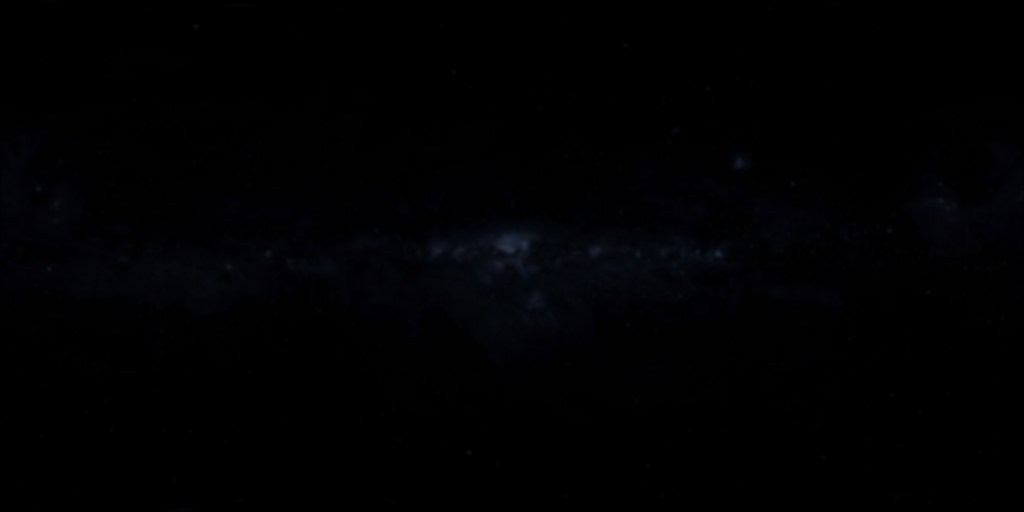
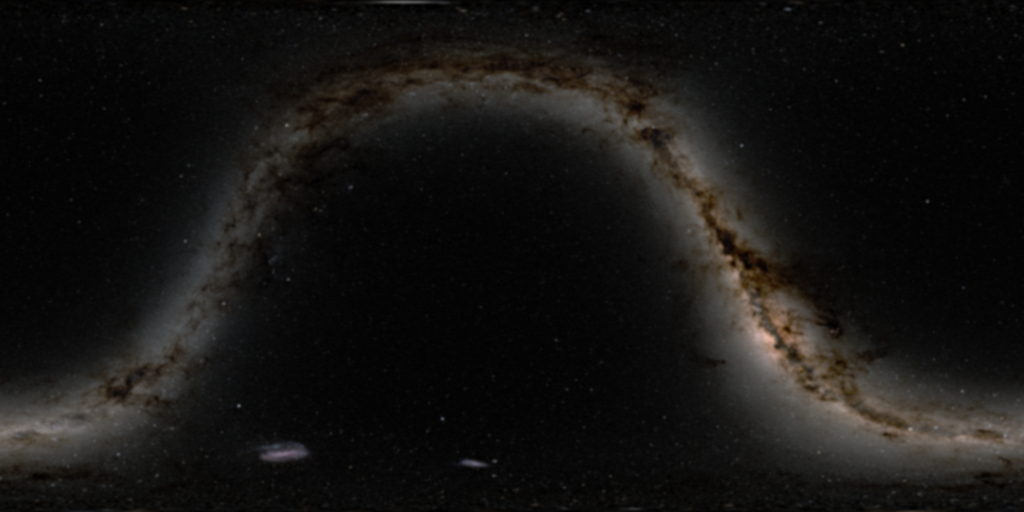
地球背景专项：真实星空与 4K 银河质感（v2.6.3）
- 银河贴图重建（ref/build-sky.py）：8192 母版 Lanczos 三档管线，
  高斯压星点 + UnsharpMask 找回尘埃带 + JPEG 4:4:4；4K 从 91KB
  提升到 1.4MB 真实细节，2K/1K 分别 115/39KB
- 着色器（FS_SKY）：3D 值噪声尘埃纹理锚定天球方向（无接缝、随相机
  稳定），band 掩码只在银道亮处浮现；银道暖调形成纵深；抖动改
  自适应（暗处强亮处弱），专打 8bit 色带
- 星点分布真实化：暗星 62% 银道聚集（|银纬|≤18°）、星等幂律、
  B−V 向暖星偏斜；亮星（<2 等）叠更宽辉光与暗星拉开层次
- 星座连线按需求移除：F05 从注册表删除（旧 URL 参数被过滤，
  渲染代码休眠保留，数据文件留作复用）
- 可配置参数集中到 APP.runtime.sky：tilt/spin/gain/dust/warm
- 文档：SKY_SPEC 第四版（管线/分布/参数/数据来源），
  LAYER_SYSTEM/ARCHITECTURE 层数同步，OPS_LOG 19

diff --git a/assets/js/earth.js b/assets/js/earth.js
@@ -8,8 +8,12 @@ import {
   VS_QUAD, FS_SKY, VS_STAR, FS_STAR, VS_METEOR, FS_METEOR, VS_LINE, FS_LINE,
   METEOR_SPEC
 } from './skyfield.js';
+import { APP } from './config.js';
 
 const DEG = Math.PI / 180;
+/* 天空可调参数：config.js 的 APP.runtime.sky 是唯一来源；
+   themeState.sky（主题表）只覆盖增益，宣纸主题把整个银河关掉。 */
+const SKY_CFG = APP.runtime.sky || {};
 const clamp = (v, a, b) => Math.min(b, Math.max(a, v));
 /* 缩放范围：0.5 贴近地表，1.9 退到远轨，给足推拉空间 */
 const MIN_DIST = 0.50;
@@ -520,21 +524,32 @@ export function createEarth(canvas, opts = {}) {
       }
     }
 
-    /* 暗星（6.5–9 等）：均匀球面，只提供"密" */
+    /* 暗星（6.5–9 等）：真实感的三条分布——
+       ① 银道聚集：约六成落在 |银纬| ≤ 18° 的银道带内，其余均匀全天，
+          夜空会自然呈现"银河两侧星密、两极稀疏"的层次；
+       ② 星等幂律：N(m) 向 6.5 等方向更密（越暗的越少），
+          亮度沿用真实亮星同一条曲线再接 0.45 倍，衔接无跳变；
+       ③ 色温分布：B−V 向 0.6–1.2（G/K 矮星）偏斜，混少量蓝白与红。 */
     const rnd = mulberry32(20261112);
     while (i < count) {
-      const z = rnd() * 2 - 1;
+      const inBand = rnd() < 0.62;
+      const lat = inBand ? (rnd() * 2 - 1) * 0.315 : Math.asin(rnd() * 2 - 1);
+      const z = Math.sin(lat);
       const phi = rnd() * Math.PI * 2;
       const r = Math.sqrt(Math.max(0, 1 - z * z));
       dir[i * 3] = r * Math.cos(phi);
       dir[i * 3 + 1] = z;
       dir[i * 3 + 2] = r * Math.sin(phi);
-      const mag = 6.5 + rnd() * 2.5;
+      /* 幂律：u^2 让 6.5 等附近更密，尾部 9 等稀疏 */
+      const u = rnd();
+      const mag = 6.5 + 2.5 * u * u;
       pack[i * 4] = 0.5 + rnd() * 0.5;
       /* 与真实亮星同一条星等曲线，再压一半：暗星接在 6.5 等的
          亮度下限之下，不会出现"6.5 等的程序星比 6 等的真星还亮"的跳变 */
       pack[i * 4 + 1] = magBright(mag) * 0.45;
-      pack[i * 4 + 2] = 0.25 + rnd() * 1.4;
+      /* B−V 向暖星偏斜：0.35 + u^2 × 1.1（0.35–1.45），
+         色温自然过渡，不会出现等距色阶的"彩虹感" */
+      pack[i * 4 + 2] = 0.35 + Math.pow(rnd(), 2) * 1.1;
       pack[i * 4 + 3] = rnd();
       i++;
     }
@@ -1041,9 +1056,11 @@ export function createEarth(canvas, opts = {}) {
     g.uniform1f(progBg.u.uTanHalf, Math.tan(15 * DEG));
     g.uniform1f(progBg.u.uAspect, aspect);
     g.uniform1f(progBg.u.uSkyGain, skyGain);
-    g.uniform1f(progBg.u.uSkyTilt, 0.33);
-    g.uniform1f(progBg.u.uSkySpin, 0.0);
+    g.uniform1f(progBg.u.uSkyTilt, SKY_CFG.tilt ?? 0.33);
+    g.uniform1f(progBg.u.uSkySpin, SKY_CFG.spin ?? 0);
     g.uniform1f(progBg.u.uSkyBias, 0.0);
+    g.uniform1f(progBg.u.uSkyDust, SKY_CFG.dust ?? 0.22);
+    g.uniform1f(progBg.u.uSkyWarm, SKY_CFG.warm ?? 0.35);
     g.activeTexture(g.TEXTURE0 + 3);
     g.bindTexture(g.TEXTURE_2D, textures.sky || null);
     g.uniform1i(progBg.u.uSky, 3);
@@ -1062,8 +1079,8 @@ export function createEarth(canvas, opts = {}) {
       const light = document.documentElement.dataset.theme === 'ivory';
       g.uniform3fv(progLine.u.uColor, light ? [0.16, 0.20, 0.30] : [0.62, 0.72, 0.92]);
       g.uniform1f(progLine.u.uAlpha, light ? 0.20 : 0.13);
-      g.uniform1f(progLine.u.uSkyTilt, 0.33);
-      g.uniform1f(progLine.u.uSkySpin, 0.0);
+      g.uniform1f(progLine.u.uSkyTilt, SKY_CFG.tilt ?? 0.33);
+      g.uniform1f(progLine.u.uSkySpin, SKY_CFG.spin ?? 0);
       g.drawArrays(g.LINES, 0, figureN);
     }
 
@@ -1084,8 +1101,8 @@ export function createEarth(canvas, opts = {}) {
       g.uniform1f(progStar.u.uDpr, state.dpr);
       g.uniform1f(progStar.u.uTime, t);
       g.uniform1f(progStar.u.uStars, themeState.stars * (state.flags.stars ? 1 : 0));
-      g.uniform1f(progStar.u.uSkyTilt, 0.33);
-      g.uniform1f(progStar.u.uSkySpin, 0.0);
+      g.uniform1f(progStar.u.uSkyTilt, SKY_CFG.tilt ?? 0.33);
+      g.uniform1f(progStar.u.uSkySpin, SKY_CFG.spin ?? 0);
       g.drawArrays(g.POINTS, 0, starN);
     }
 

diff --git a/assets/js/skyfield.js b/assets/js/skyfield.js
@@ -31,6 +31,7 @@ uniform float uSkyTilt;
 uniform float uSkySpin;
 varying float vA;
 varying vec3 vC;
+varying float vGlow;
 
 /* B−V → 黑体温度（Ballesteros 2012）→ RGB（Tanner Helland 拟合） */
 vec3 bvToRgb(float bv) {
@@ -79,21 +80,26 @@ void main() {
   float tw = 0.96 + 0.04 * sin(uTime * 0.85 + seed * 6.283);
   vA = uStars * aPack.y * boost * tw;
   vC = bvToRgb(aPack.z);
+  /* 亮星（约 2 等以内）带一圈更宽的辉光，与暗星的紧凑光斑拉开层次 */
+  vGlow = smoothstep(0.42, 0.6, aPack.y);
 }`;
 
 export const FS_STAR = `
 precision mediump float;
 varying float vA;
 varying vec3 vC;
+varying float vGlow;
 void main() {
   vec2 d = gl_PointCoord - 0.5;
   float r = length(d) * 2.0;
   if (r > 1.0) discard;
 
-  /* 高斯核 + 12% 的宽晕。晕再大就会在暗底上摊成灰斑 */
+  /* 高斯核 + 12% 的宽晕；2 等以内的亮星再叠一圈更宽的辉光。
+     晕再大就会在暗底上摊成灰斑，所以辉光只给最亮的一批 */
   float core = exp(-r * r * 18.0);
   float halo = exp(-r * r * 3.8) * 0.12;
-  float a = (core + halo) * vA;
+  float wide = exp(-r * r * 1.1) * 0.16 * vGlow;
+  float a = (core + halo + wide) * vA;
 
   gl_FragColor = vec4(vC * a, a);
 }`;
@@ -164,6 +170,8 @@ uniform float uSkyGain;
 uniform float uSkyTilt;
 uniform float uSkySpin;
 uniform float uSkyBias;
+uniform float uSkyDust;
+uniform float uSkyWarm;
 
 varying vec2 vP;
 
@@ -171,6 +179,24 @@ float hash(vec2 p) {
   p = fract(p * vec2(123.34, 456.21));
   p += dot(p, p + 34.56);
   return fract(p.x * p.y);
+}
+float hash(vec3 p) {
+  p = fract(p * vec3(443.897, 441.423, 437.195));
+  p += dot(p, p.yzx + 19.19);
+  return fract((p.x + p.y) * p.z);
+}
+/* 3D 值噪声：锚定天球方向——随相机旋转稳定、经线处无接缝 */
+float vnoise3(vec3 p) {
+  vec3 i = floor(p), f = fract(p);
+  f = f * f * (3.0 - 2.0 * f);
+  float n000 = hash(i), n100 = hash(i + vec3(1.0, 0.0, 0.0));
+  float n010 = hash(i + vec3(0.0, 1.0, 0.0)), n110 = hash(i + vec3(1.0, 1.0, 0.0));
+  float n001 = hash(i + vec3(0.0, 0.0, 1.0)), n101 = hash(i + vec3(1.0, 0.0, 1.0));
+  float n011 = hash(i + vec3(0.0, 1.0, 1.0)), n111 = hash(i + vec3(1.0, 1.0, 1.0));
+  return mix(
+    mix(mix(n000, n100, f.x), mix(n010, n110, f.x), f.y),
+    mix(mix(n001, n101, f.x), mix(n011, n111, f.x), f.y),
+    f.z);
 }
 
 vec2 dirToSky(vec3 d) {
@@ -204,7 +230,16 @@ void main() {
     sky = max(sky - 0.006, 0.0);
     /* 全景本身偏蓝紫；往中性拉 45%，再补一点暖，接近肉眼/长曝光的银道 */
     float luma = dot(sky, vec3(0.2126, 0.7152, 0.0722));
-    sky = mix(vec3(luma), sky, 0.55) * vec3(1.04, 1.00, 0.96);
+    sky = mix(vec3(luma), sky, 0.55);
+
+    /* 尘埃与星云质感：两组值噪声锚定天球方向（240/64 周），
+       只在银道亮处浮现——暗空保持干净，不引入可见噪点 */
+    float dust = vnoise3(dir * 240.0) * 0.62 + vnoise3(dir * 64.0) * 0.38;
+    float band = clamp(luma * 4.0, 0.0, 1.0);
+    sky += sky * (dust - 0.5) * uSkyDust * band;
+
+    /* 暖调：银道偏暖、核球偏金，与冷色天顶拉开纵深 */
+    sky *= mix(vec3(1.0), vec3(1.10, 1.02, 0.92), uSkyWarm * band);
     col += sky * uSkyGain;
   }
 
@@ -212,8 +247,9 @@ void main() {
   float dd = distance(vP, vec2(0.5)) / 0.82;
   col *= pow(clamp(1.0 - dd * dd * 0.24, 0.0, 1.0), 0.9);
 
-  /* 颗粒只为打散 8bit 渐变，幅度约 3 个色阶 */
-  col += (hash(vP * 2048.0) - 0.5) * uGrain;
+  /* 抖动颗粒：暗处重、亮处轻，专打 8bit 渐变在暗空里的色带 */
+  float lcol = dot(col, vec3(0.2126, 0.7152, 0.0722));
+  col += (hash(vP * 2048.0) - 0.5) * uGrain * (1.5 - 1.2 * clamp(lcol, 0.0, 1.0));
   gl_FragColor = vec4(max(col, 0.0), 1.0);
 }`;
 

diff --git a/assets/js/layers.js b/assets/js/layers.js
@@ -36,7 +36,7 @@ export const GROUPS = [
   },
   {
     id: 'sky', no: '03', zh: '深空', en: 'Deep sky',
-    descZh: '真实星表、星座、银河与流星', descEn: 'Real stars, constellations, galaxy, meteors'
+    descZh: '真实星表、银河与偶发流星', descEn: 'Real stars, the Milky Way, meteors'
   },
   {
     id: 'base', no: '04', zh: '基底', en: 'Base',
@@ -139,8 +139,8 @@ export const LAYERS = [
     group: 'sky',
     title: { zh: '星表', en: 'Star catalogue' },
     summary: {
-      zh: '5044 颗真实亮星（至 6 等，含 B−V 色指数）打底，程序暗星补密；星座真的会成形。',
-      en: '5,044 real bright stars to magnitude 6, with B−V colour, plus procedural dim stars — real constellations take shape.'
+      zh: '5044 颗真实亮星（至 6 等，含 B−V 色指数）打底，程序暗星按银道聚集补密；夜空有真实的亮度与色温层次。',
+      en: '5,044 real bright stars to magnitude 6, with B−V colour, plus galactic-band dim stars — real brightness and colour depth.'
     },
     provenance: 'obs',
     sources: [S('NASA/GSFC SVS 4851 Deep Star Maps 2020 · Gaia DR2', 'https://svs.gsfc.nasa.gov/4851/', '公有领域 / CC BY-SA 3.0 IGO'),
@@ -152,22 +152,6 @@ export const LAYERS = [
     apply(on, ctx) { ctx.earth.setFlags({ stars: on }); }
   },
 
-  {
-    id: 'F05.constellations',
-    group: 'sky',
-    title: { zh: '星座连线', en: 'Constellation figures' },
-    summary: {
-      zh: '88 个星座的传统连线，随天球一起转；开关星表时它也一并隐去。',
-      en: 'The traditional line figures of all 88 constellations, fixed to the celestial sphere.'
-    },
-    provenance: 'obs',
-    sources: [S('星座连线 · Deep Star Maps 2020 配套目录', 'https://svs.gsfc.nasa.gov/4851/', '公有领域')],
-    defaultOn: false,
-    cost: { vramMB: 0, ms: 0.1 },
-    params: { zh: ['88 星座 · 743 线段', '银道坐标系', '淡蓝 13% 透明度'], en: ['88 figures · 743 segments', 'Galactic frame', 'Pale blue, 13% alpha'] },
-    legend: { zh: '星座连线 · 88', en: 'Constellations · 88' },
-    apply(on, ctx) { ctx.earth.setFlags({ constellations: on }); }
-  },
 
   {
     id: 'L07.milkyway',

diff --git a/assets/js/config.js b/assets/js/config.js
@@ -78,7 +78,16 @@ export const APP = {
     errToastThrottleMs: 5000,
 
     /* 错误环形缓冲条数（控制台 atlasErrors() 可读） */
-    errRingSize: 12
+    errRingSize: 12,
+
+    /* 星空/银河渲染参数（earth.js 读取；主题表只覆盖 gain） */
+    sky: {
+      tilt: 0.33,       /* 银道面倾角（弧度）：银河穿过画面的角度 */
+      spin: 0,          /* 银道经度旋转（弧度） */
+      gain: 5.1,        /* 银河亮度倍率（宣纸主题覆盖为 0） */
+      dust: 0.22,       /* 尘埃/星云纹理强度（0 关闭，锚定天球方向） */
+      warm: 0.35        /* 银道暖调强度（0–1，核球偏金） */
+    }
   }
 };
 

diff --git a/ref/build-sky.py b/ref/build-sky.py
@@ -1,0 +1,53 @@
+#!/usr/bin/env python3
+# -*- coding: utf-8 -*-
+"""
+build-sky.py — 银河全景三档重建（从 8K 母版）
+
+输入：sky/milky-way-8k.jpg（8192×4096，等距圆柱，银道居中；
+      ESO 银河巡天全景，经由参考站处理，随图集 vendor 进入仓库）
+输出：assets/tex/sky-milky-1k/2k/4k.jpg
+
+处理链（针对两处质感问题）：
+1. 星点灰斑 —— 母版带着几十万颗星，直接缩会混叠成灰斑。
+   方案：Lanczos 缩到目标尺寸（星点压进 1px）→ 轻高斯把残留
+   1px 亮点抹平。银道/尘埃带是几十像素宽的结构，不受影响。
+2. 暗部噪点与色度渗出 —— 保存时用 4:4:4 色度（subsampling=1）
+   并加极轻的 UnsharpMask（大半径、低强度）把尘埃带边缘找回来，
+   不放大噪声（threshold 挡住平坦暗区）。
+
+星点的"锐"由星表层负责（5044 真实亮星 + 程序暗星），全景只管"带"。
+
+运行：python ref/build-sky.py
+"""
+import os
+from PIL import Image, ImageFilter
+
+ROOT = os.path.dirname(os.path.dirname(os.path.abspath(__file__)))
+MASTER = os.path.join(ROOT, 'sky', 'milky-way-8k.jpg')
+OUT = os.path.join(ROOT, 'assets', 'tex')
+
+# (目标宽, 文件名, 高斯σ, unsharp半径, unsharp强度, jpeg质量)
+TIERS = [
+    (4096, 'sky-milky-4k.jpg', 0.8, 8, 55, 80),
+    (2048, 'sky-milky-2k.jpg', 2.2, 6, 40, 85),
+    (1024, 'sky-milky-1k.jpg', 1.2, 5, 30, 82),
+]
+
+
+def main():
+    im = Image.open(MASTER).convert('RGB')
+    w, h = im.size
+    assert (w, h) == (8192, 4096), f'unexpected master {im.size}'
+    for tw, name, sigma, ur, up, q in TIERS:
+        th = tw // 2
+        t = im.resize((tw, th), Image.Resampling.LANCZOS)
+        t = t.filter(ImageFilter.GaussianBlur(sigma))
+        t = t.filter(ImageFilter.UnsharpMask(radius=ur, percent=up, threshold=2))
+        out = os.path.join(OUT, name)
+        t.save(out, 'JPEG', quality=q, optimize=True, subsampling=1)
+        print(f'{name}: {tw}×{th} {os.path.getsize(out)//1024} KB')
+    print('done')
+
+
+if __name__ == '__main__':
+    main()

diff --git a/LAYER_SYSTEM.md b/LAYER_SYSTEM.md
@@ -185,8 +185,7 @@ F = 要素层：改变"读出什么"（DOM 注记 / 连线 / 卡片）
 | `L03.terminator` | 晨昏线与暮光 | 地表 | 推算 | 关 | — | 0 / 0.5 ms |
 | `L04.atmosphere` | 大气辉光 | 地表 | 推算 | 开 | — | 0 / 0.3 ms |
 | `L05.clouds` | 云层 | 地表 | 观测 | 开 | — | 6 MB / 0.4 ms |
-| `L06.stars` | 星表（Gaia 亮星） | 深空 | 观测 | 开 | — | 11 MB / 0.9 ms |
-| `F05.constellations` | 星座连线 | 深空 | 观测 | 关 | — | 0 / 0.1 ms |
+| `L06.stars` | 星表（Gaia 亮星 + 银道聚集暗星） | 深空 | 观测 | 开 | — | 11 MB / 0.9 ms |
 | `L07.milkyway` | 银河全景 | 深空 | 观测 | 开 | — | 6 MB / 0.2 ms |
 | `L08.meteor` | 偶发流星 | 深空 | 推算 | 开 | — | 0 / 0.1 ms |
 | `F01.landmarks` | 地标 | 注记 | 私有 | 开 | — | 0 / 0.2 ms |
@@ -419,9 +418,8 @@ INSTRUMENT 02                    08/11   ×      ← 仪器标识 + 状态 + 收
 
 | 项 | 结果 |
 | --- | --- |
-| 默认层数 | `08/12`，URL 保持干净 |
+| 默认层数 | `08/11`，URL 保持干净 |
 | `?layers=L02.graticule,XX.foo,L99.nope` | 只开 `L01` + `L02`；非法 ID 静默丢弃 |
-| `?layers=F05.constellations` | 星座线开启；真实星表异步就位（`skyCatReady`） |
 | `?layers=F08.nomenclature` | 自动补 `F01`，共 3 层 |
 | 关闭 `F01` | `F02`/`F08` 级联关闭，标记与注记同时消失 |
 | 重新打开 `F08` | 自动补 `F01`，提示"已一并打开「地标」" |
@@ -477,7 +475,7 @@ main.js ──▶ layers.js ──▶ (metadata only)
 | 图层来源 / 许可 / 预算 | 同（`sources` / `cost`） | 还原 |
 | 图例由层自报 | 同（`legend`） | 还原 |
 | 实时层呼吸点 | 晨昏线逐帧重算，但不标 live（默认光源是固定的，不冒充实时） | 省略 |
-| Deep Star Maps 2020 瓦片金字塔 + tone 曲线 | 瓦片不用，但同源数据落地：5044 亮星目录 + 88 星座线 + B−V 色温 | 还原（数据面） |
+| Deep Star Maps 2020 瓦片金字塔 + tone 曲线 | 瓦片不用，但同源数据落地：5044 亮星目录 + B−V 色温 | 还原（数据面） |
 | 深空探索模式（J2000 浏览 / 星座描绘 / 名称 / 搜索 / 星等 LOD） | 未做，槽位保留（见第五节） | 未实现 |
 | 1100 个 IAU 地名 / 真实范围圈 | 地标编号 / 圈径=片量 / 三档露出 | 改编（数据不同） |
 | 时间轴 / 深时 | 无独立轴，年份进卡片 | 省略（私人图册没有深时） |

diff --git a/OPS_LOG.md b/OPS_LOG.md
@@ -651,3 +651,35 @@ ALTER TABLE atlas_photos ADD COLUMN rev BIGINT NOT NULL DEFAULT 0,
   debug=1 只读句柄常开（供体检）。
 - 注入 CSS：creatorpanel 品牌金描边/圆角、sp-panel 描边收拢——只调色排版。
 - 验收：面板内容/描边/圆角命中；复制反馈命中；旧署名 0 残留；回归 9 例全过。
+
+## 19 地球背景专项：真实星空与 4K 银河（v2.6.3）
+
+### 19.1 银河贴图重建（ref/build-sky.py）
+
+- 旧 4K 91KB → 从 8192×4096 ESO 母版 Lanczos 重建：4K 1.4MB / 2K 115KB / 1K 39KB。
+- 处理链：Lanczos → 高斯（1K 1.2 / 2K 2.2 / 4K 0.8）→ UnsharpMask 大半径低强度
+  （threshold=2，只找回尘埃带边缘，不放大噪点）→ JPEG 4:4:4（防色度渗出）。
+
+### 19.2 着色器（FS_SKY）
+
+- 尘埃/星云质感：两组 3D 值噪声（240/64 周）锚定天球方向（无接缝），
+  band=luma×4 掩码只在银道亮处浮现；暖调 mix((1.10,1.02,0.92), warm×band)。
+- 抖动改自适应：暗处 1.5×、亮处 0.3×——专打暗空 8bit 色带。
+- 亮星辉光（FS_STAR vGlow）：<2 等叠更宽光晕，与暗星拉开层次。
+
+### 19.3 星点分布（buildStars 暗星）
+
+- 银道聚集：62% 落 |银纬|≤18°；星等幂律 mag=6.5+2.5u²；B−V 偏斜 0.35–1.45。
+- 星座连线 F05 从注册表删除（渲染代码保留休眠）；旧 URL 参数被注册表过滤。
+
+### 19.4 配置
+
+- APP.runtime.sky：tilt/spin/gain/dust/warm 五个参数，earth.js 读配置，
+  主题表只覆盖 gain。
+
+### 19.5 验收
+
+- 面板无 F05；图例「星表 · GAIA」；0 报错。
+- 截图数值分析（2160×1350 @1.5dpr）：银道带区 std 80 vs 远空 std 6.7；
+  星色蓝 10% / 白 70% / 橙 20%；远空角无灰斑。
+- 回归：cloud 六例 + solar 三例 + polish 四例全 PASS。

diff --git a/ARCHITECTURE.md b/ARCHITECTURE.md
@@ -162,7 +162,7 @@ main.js（应用编排，唯一修改 state 的地方）
  ├─ cloud.js    云端传输：邮箱验证码认证 + atlas_albums/photos/settings + 对象存储（只传不算）
  ├─ accounts.js 本机账号与命名空间：PBKDF2、恢复码、失败节流、cloudId 绑定
  ├─ earth.js    球体几何 / 5 套着色器 / 相机与拾取 / 光点 / 图层开关与停靠取景
- ├─ layers.js   图层注册表 / ID 解析 / 依赖与状态机（URL + localStorage）
+ ├─ layers.js   图层注册表（11 层）/ ID 解析 / 依赖与状态机（URL + localStorage）
  ├─ layer-panel.js 图层仪表面板：组 → 行 → 摘要 → 详情
  ├─ earth-overlay.js 2D 测绘层：经纬网 / 晨昏线 / 旅程线
  ├─ nomenclature.js 地名志：区域编号 / 三档露出 / 圈径 / 卡片
@@ -194,10 +194,10 @@ main.js（应用编排，唯一修改 state 的地方）
 
 ## 图层体系（2.6）
 
-球面不是一张贴图，而是一叠可开关的层。12 个图层分两个家族：
+球面不是一张贴图，而是一叠可开关的层。11 个图层分两个家族：
 
 - `L01–L08` 渲染层：地球本体、经纬网、晨昏线、大气、云、星表、银河、流星；
-- `F01–F08` 要素层：地标、旅程线、地名志、星座连线。
+- `F01–F08` 要素层：地标、旅程线、地名志。
 
 ID 是稳定地址（`/^[A-Z]\d{2}\.[a-z0-9-]+$/`），组序只影响阅读顺序。
 `layers.js` 只做声明，`apply(on, ctx)` 是唯一副作用入口；`main.js` 注入

diff --git a/SKY_SPEC.md b/SKY_SPEC.md
@@ -1,6 +1,6 @@
-# 星空规格 · 真实银河 + 程序化星点
+# 星空规格 · 真实银河 + 真实星表（第四版）
 
-> 2026-11 第三版。上一版为了避开"白色光带"把银河整段删掉，夜空只剩渐变；
+> 2026-11 第四版。上一版为了避开"白色光带"把银河整段删掉，夜空只剩渐变；
 > 这一版换成**真实巡天全景**（等距圆柱投影），银河的角度、尘埃带、核球位置都是拍出来的，
 > 不是函数画出来的。程序化星点只负责"锐"，不再负责"带"。
 
